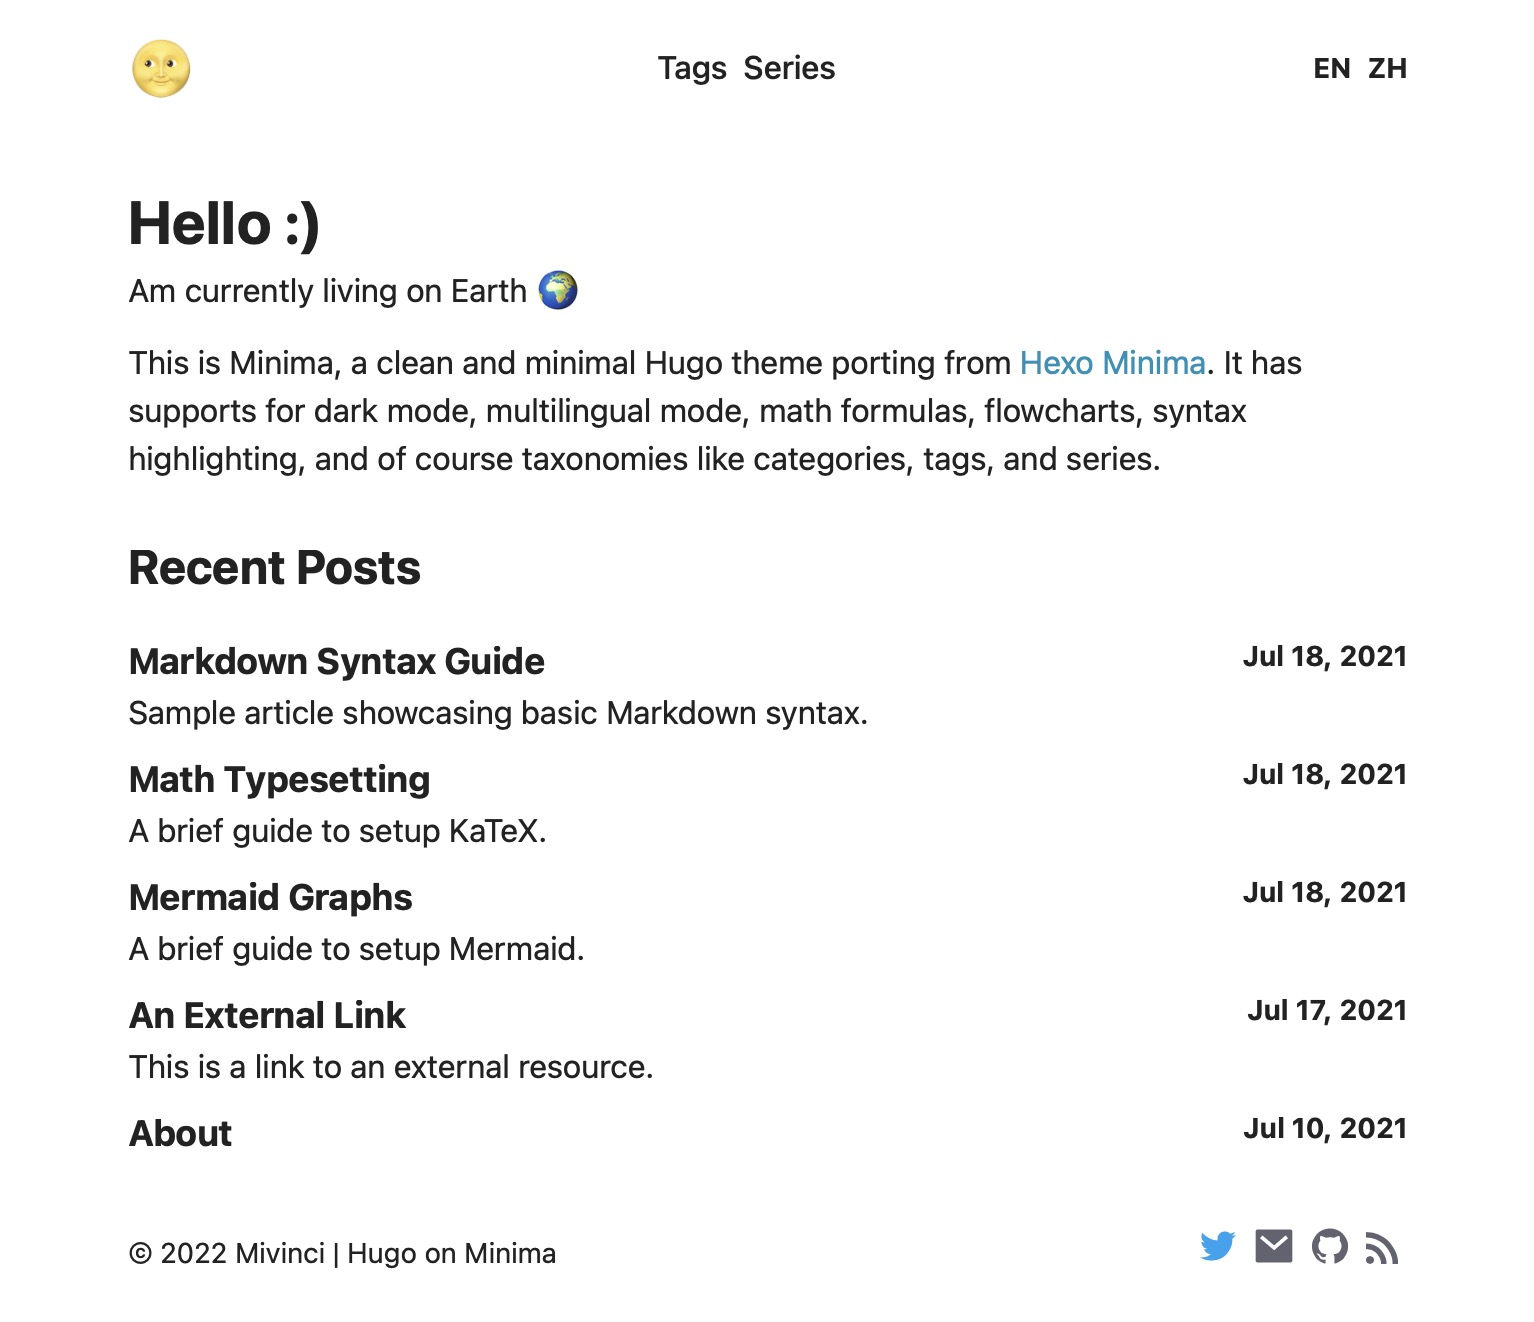
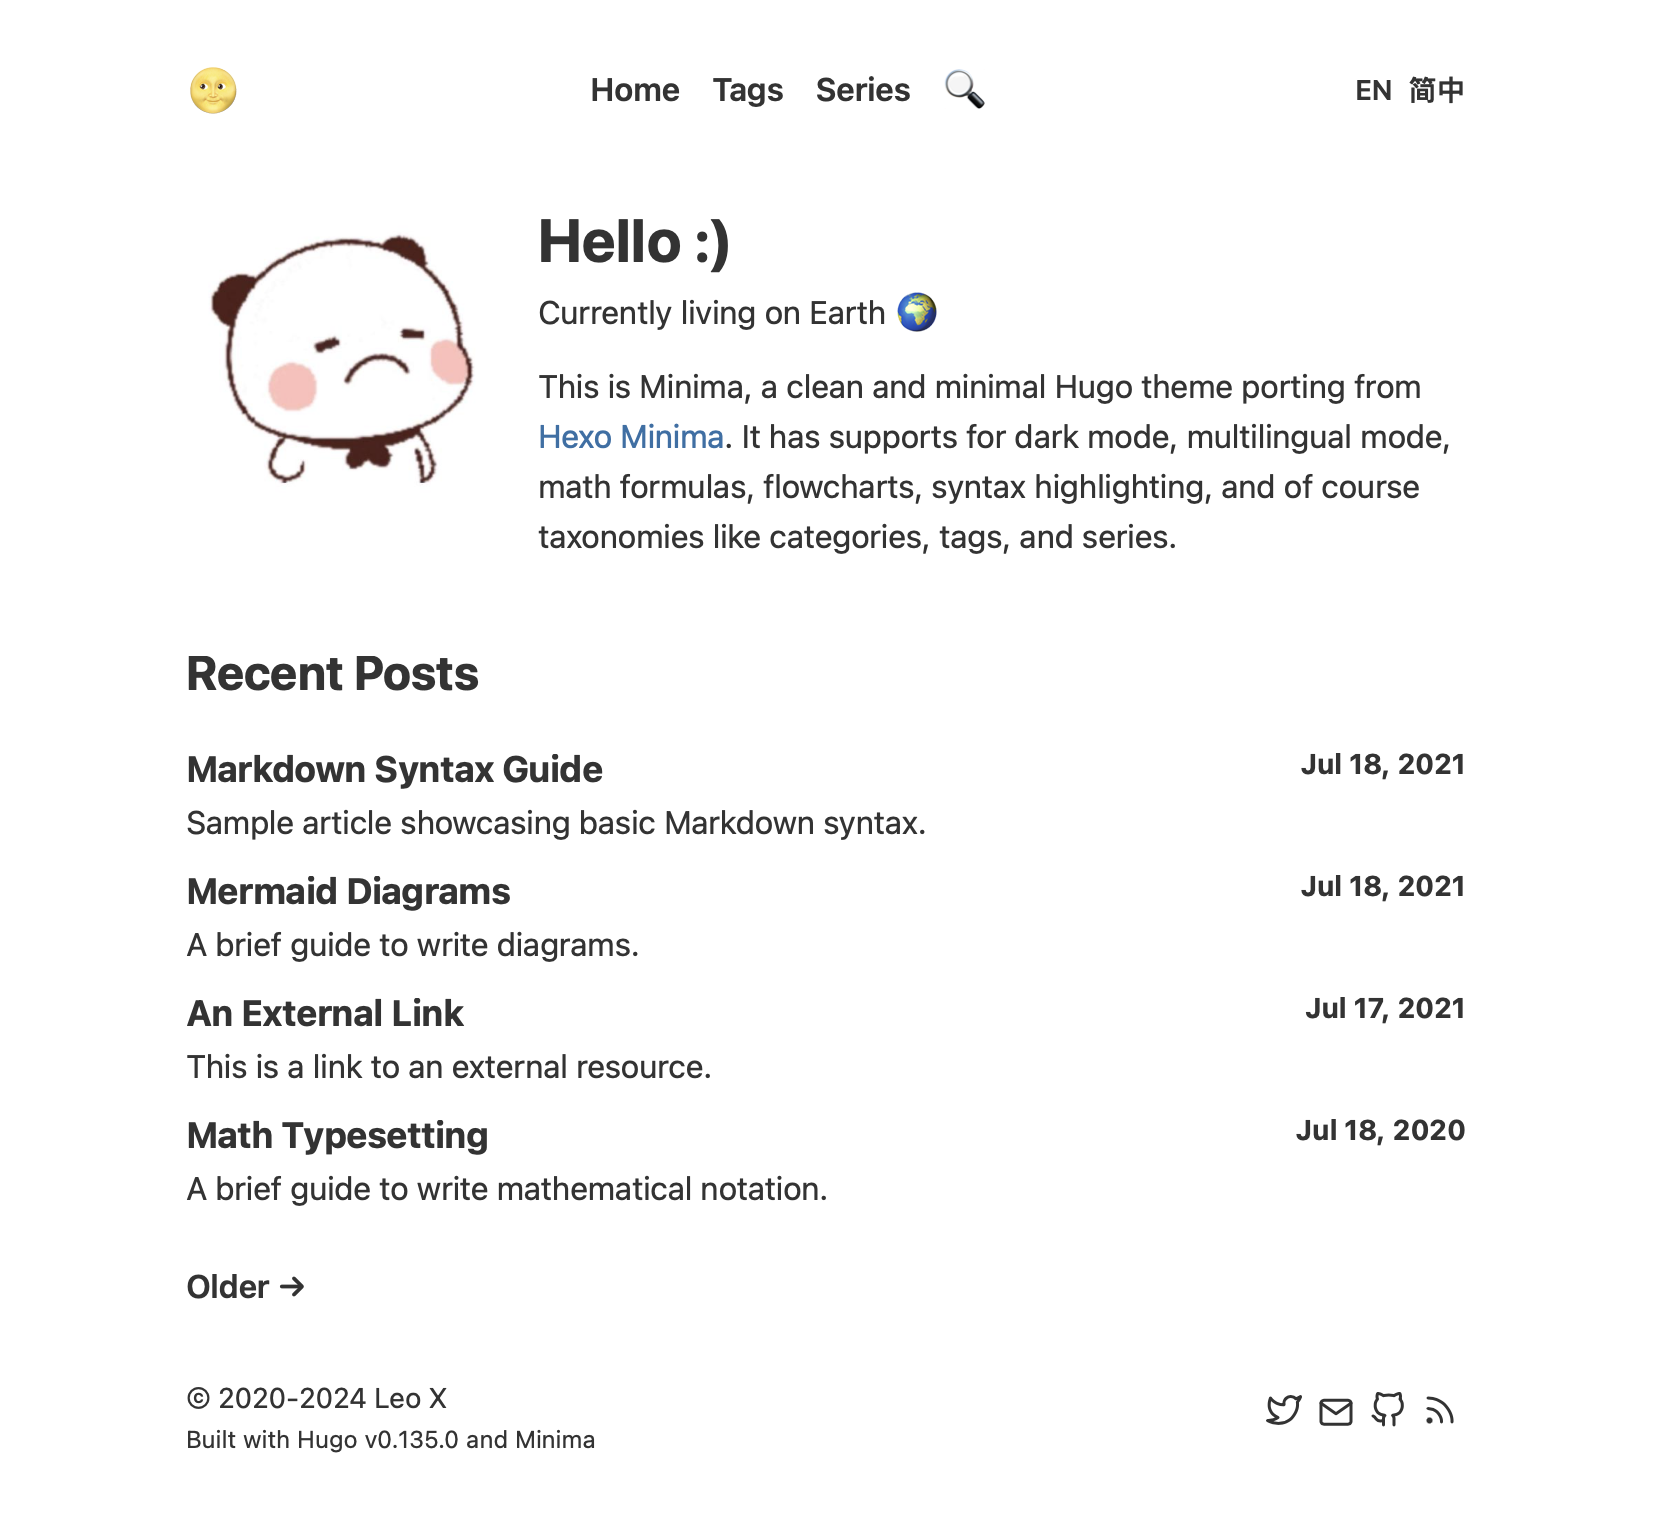
:alien: Update Hugo version and some adds and fixes

diff --git a/layouts/partials/head.html b/layouts/partials/head.html
@@ -7,7 +7,7 @@
   {{ template "_internal/google_analytics.html" . }}
   {{ end }}
   <meta name="theme-color" media="(prefers-color-scheme: light)" content="#ffffff">
-  <meta name="theme-color" media="(prefers-color-scheme: dark)" content="#262d33">
+  <meta name="theme-color" media="(prefers-color-scheme: dark)" content="#181818">
   <title>
     {{ if .IsHome }}
     {{ .Site.Title }} {{ if .Site.Params.subtitle }} - {{ .Site.Params.subtitle }} {{ end }}
@@ -20,7 +20,7 @@
   <link rel="shortcut icon" href="{{ $favicon | relURL }}" type="image/x-icon" />
   <!-- styles -->
   {{ $options := (dict "targetPath" "minima.css" "outputStyle" "compressed" "enableSourceMap" true) }}
-  {{ $style := resources.Get "css/main.scss" | resources.ExecuteAsTemplate "main.scss" . | resources.ToCSS $options | fingerprint }}
+  {{ $style := resources.Get "css/main.scss" | resources.ExecuteAsTemplate "main.scss" . | css.Sass $options | fingerprint }}
   <link rel="stylesheet" href="{{ $style.RelPermalink }}" integrity="{{ $style.Data.Integrity }}">
   <!-- scripts -->
   {{ $options = (dict "targetPath" "minima.js" "minify" true "params" site.Params) }}
@@ -41,19 +41,15 @@
 {{ end }}
 </head>
 <script>
-  // default to system color scheme.
-  const default_theme_config = '{{ .Site.Params.defaultTheme }}'
-  const default_light_theme = default_theme_config === 'system' ? 'light' : default_theme_config;
-  let default_theme = window.matchMedia('(prefers-color-scheme: dark)').matches ? 'dark' : default_light_theme;
+  const theme_config = '{{ .Site.Params.defaultTheme }}'
+  const theme_light = theme_config === 'system' ? 'light' : theme_config;
+  let theme = window.matchMedia('(prefers-color-scheme: dark)').matches ? 'dark' : theme_light;
+  console.debug(theme);
 
   try {
-    const saved_theme = localStorage.getItem('theme')
-    if (saved_theme) {
-      default_theme = saved_theme === default_light_theme ? saved_theme : default_light_theme;  
-    }
-    localStorage.setItem('theme', default_theme);
-    window.minima_theme = default_theme;
-    document.querySelector('html').classList.add(default_theme);
+    localStorage.setItem('theme', theme);
+    window.minima_theme = theme;
+    document.querySelector('html').classList.add(theme);
   } catch (e) {
     console.error(e);
   }

diff --git a/layouts/partials/header.html b/layouts/partials/header.html
@@ -1,19 +1,25 @@
-<header class="mt-3 mb-6">
+<header class="mt-3 mb-8">
   <div class="container mx-auto">
     <nav class="flex justify-between items-center">
       <div class="flex items-center">
         {{ if .Site.Params.brand }}
         <div class="mr-3 text-3xl"><a href="/">{{ .Site.Params.brand }}</a></div>
         {{ end }}
-        <div id="theme-switch" class="text-3xl cursor-pointer">{{ index .Site.Params.switch 1 }}</div>
+        <div id="theme-switch" class="text-2xl cursor-pointer">{{ index .Site.Params.switch 1 }}</div>
       </div>
-      <ul class="flex items-center text-base font-bold
+      <ul class="flex items-center text-base font-semibold
         whitespace-nowrap overflow-x-auto overflow-y-hidden">
         {{ range .Site.Menus.main }}
-        <li class="ml-2 mr-2"><a href="{{ .Identifier | relLangURL }}">{{ T .Identifier | default .Name }}</a></li>
+        <li class="ml-2 mr-2">
+          {{ if eq .Identifier "home" }}
+          <a href='{{ relLangURL "" }}'>{{ T .Identifier | default .Name }}</a>
+          {{ else }}
+          <a href="{{ relLangURL .Identifier }}">{{ T .Identifier | default .Name }}</a>
+          {{ end }}
+        </li>
         {{ end }}
       </ul>
-      <ul class="flex item-center text-sm font-bold">
+      <ul class="flex item-center text-sm font-semibold">
         {{ range $.Site.Home.AllTranslations }}
         <li class="ml-2"><a href="{{ .Permalink }}">{{ .Language.LanguageName }}</a></li>
         {{ end}}

diff --git a/layouts/index.html b/layouts/index.html
@@ -1,10 +1,15 @@
 {{ define "main" }}
 <main class="container mx-auto">
-  <h2 class="mt-8 text-3xl font-bold">{{ .Site.Params.greet }}</h2>
-  <p class="mt-0 mb-0">{{ .Site.Author.status }}</p>
-  <p class="mt-3 mb-3 home-intro">{{ .Site.Author.description | markdownify | safeHTML }}</p>
+  <div class="flex items-center flex-col sm:flex-row sm:items-start gap-4">
+    <img class="w-48 sm:w-40 rounded-lg mt-1" src="{{ .Site.Params.Author.Avatar }}" alt="avatar">
+    <div class="text-center sm:text-left">
+      <h2 class="text-3xl font-bold mb-2" style="line-height: 1;">{{ .Site.Params.greet }}</h2>
+      <p class="mt-0 mb-0">{{ .Site.Params.author.status }}</p>
+      <p class="mt-3 mb-3 home-intro">{{ .Site.Params.Author.description | markdownify | safeHTML }}</p>
+    </div>
+  </div>
   {{ if eq .Paginator.PageNumber 1 }}
-  <h3 class="mt-6 mb-4 text-2xl font-bold">{{ T "recent" }}</h3>
+  <h3 class="text-center sm:text-left mt-6 mb-4 text-2xl font-bold">{{ T "recent" }}</h3>
   {{ else }}
   <h3 class="mt-6 mb-4 text-2xl font-bold">{{ T "older" }}</h3>
   {{ end }}

diff --git a/assets/css/atom.scss b/assets/css/atom.scss
@@ -34,6 +34,10 @@ $screens: ("", 0), (sm\:, 640px);
     .#{$k}text-center { text-align: center; }
 
     .#{$k}text-left { text-align: left; }
+
+    .#{$k}w-48 { width: 12rem; }
+
+    .#{$k}w-40 { width: 10rem; }
   }
 }
 
@@ -100,4 +104,12 @@ $texts: (xs, 0.75), (sm, 0.875), (base, 1), (lg, 1.125), (xl, 1.25),
 /* interactivity */
 .cursor-pointer {
   cursor: pointer;
+}
+
+.gap-4 {
+  gap: 1rem;
+}
+
+.rounded-lg {
+  border-radius: 0.8rem;
 }
